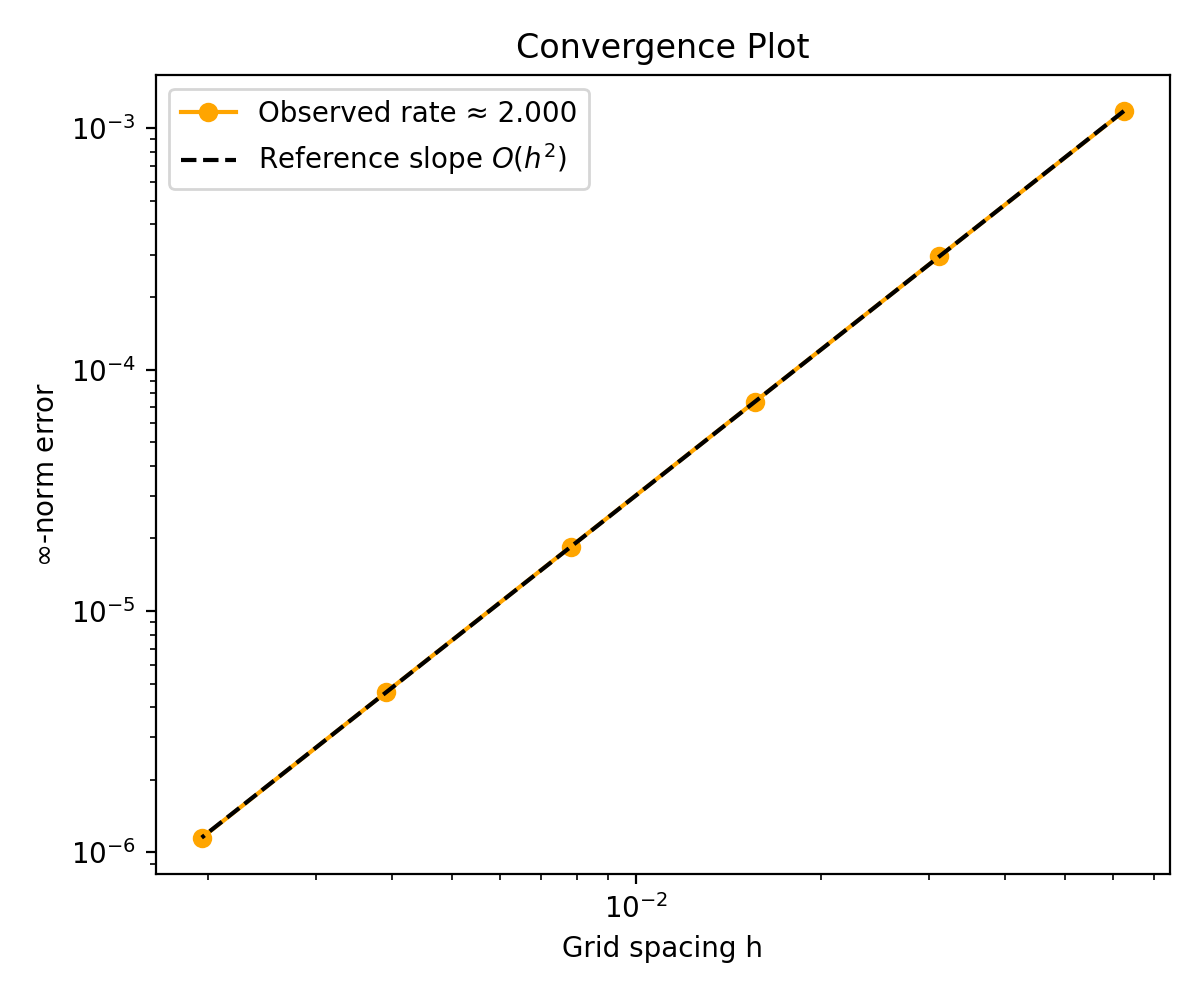
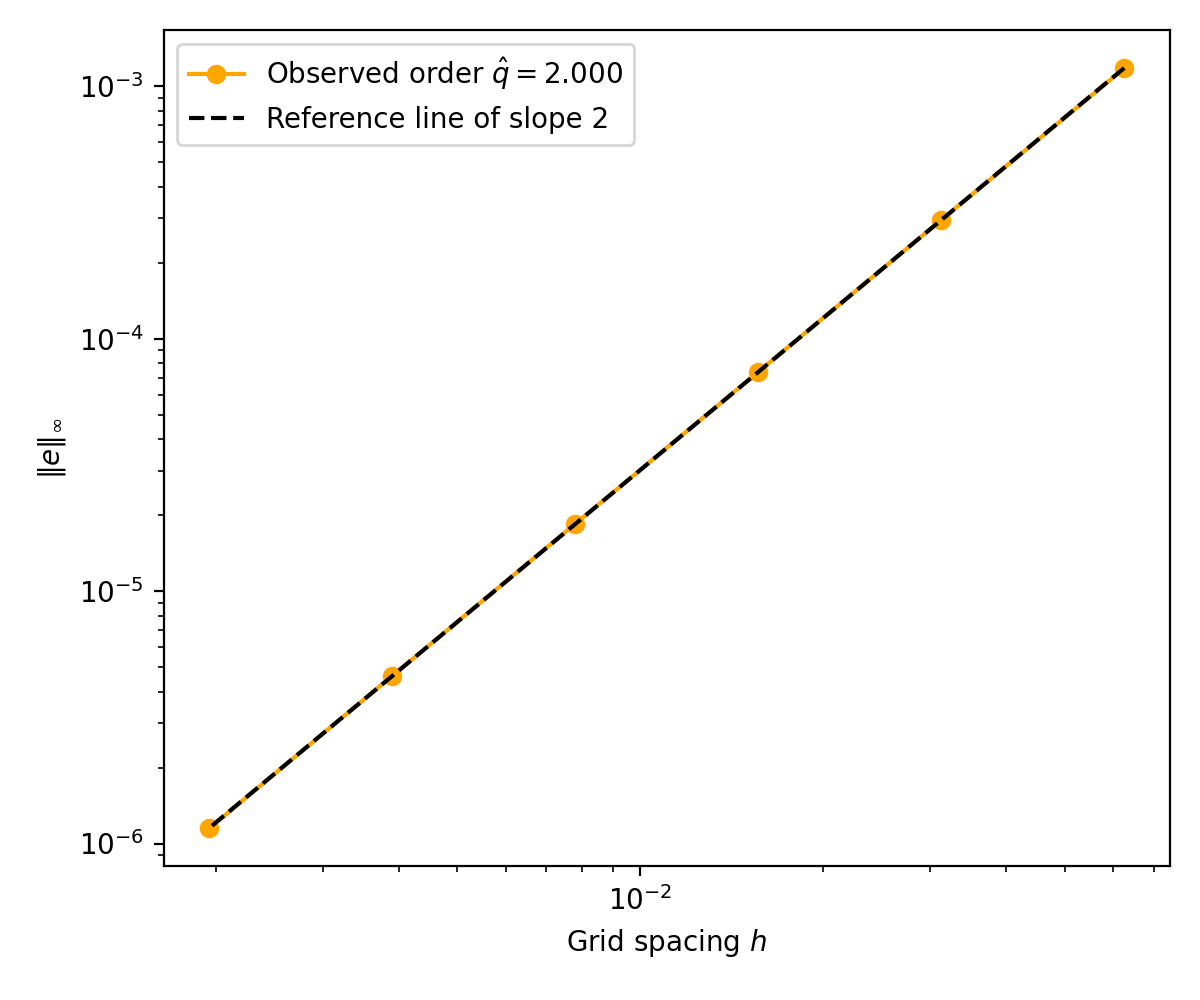
update plot for laplace mixed bcs

Changed region(s): [[0.0308, 0.031, 0.9867, 0.961]]

diff --git a/Chapter3/boundary_conditions/laplace_mixed/rectangle2d.py b/Chapter3/boundary_conditions/laplace_mixed/rectangle2d.py
@@ -219,15 +219,14 @@ assert slope < 2.1
 
 # Plot
 plt.figure(figsize=(6, 5))
-plt.loglog(h, infinity_norms, 'o-', label=f'Observed rate ≈ {slope:.3f}', color='orange')
+plt.loglog(h, infinity_norms, 'o-', label=rf'Observed order $\hat{{q}} = {slope:.3f}$', color='orange')
 plt.loglog(
     h, np.exp(intercept) * h**2,
     'k--',
-    label=r'Reference slope $O(h^2)$'
+    label='Reference line of slope 2'
 )
-plt.xlabel(r'Grid spacing h')
-plt.ylabel(r'$\infty$-norm error')
-plt.title('Convergence Plot')
+plt.xlabel(r'Grid spacing $h$')
+plt.ylabel(r'$\|e\|_\infty$')
 plt.legend()
 plt.tight_layout()
 plt.savefig("laplace_mixed.png", dpi=200)
